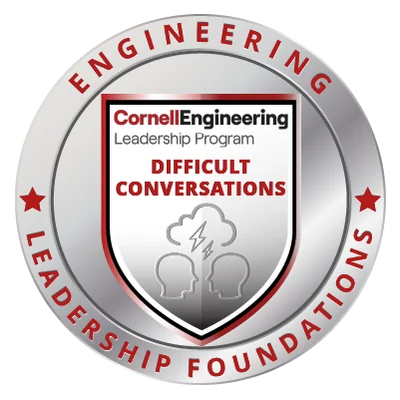
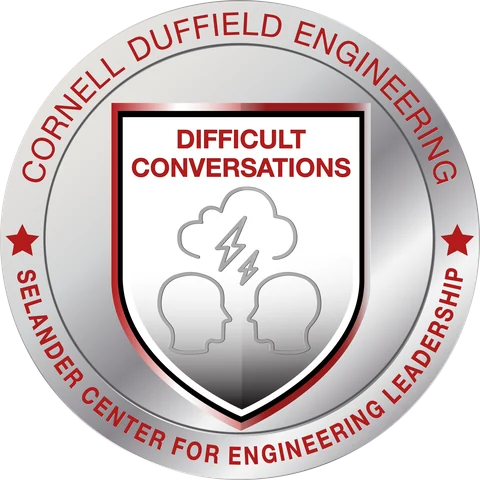
Update Selander badge images

diff --git a/site/certificates/index.html b/site/certificates/index.html
@@ -32,7 +32,7 @@
 .spec .cert>*{grid-column:2} .spec .cert>.cert-img{grid-column:1;grid-row:1 / span 6;align-self:center}
 @media (max-width:820px){.spec .cert{grid-template-columns:1fr} .spec .cert>*,.spec .cert>.cert-img{grid-column:1;grid-row:auto}}
 .jump{display:flex;flex-wrap:wrap;gap:.5rem}
-.badge-tile{display:grid;place-items:center;aspect-ratio:640/494;background:var(--accent-soft)} .cert-img.badge-tile img{width:64%;height:auto}</style>
+.badge-tile{display:grid;place-items:center;aspect-ratio:640/494;background:var(--accent-soft)} .cert-img.badge-tile img{width:70%;height:auto}</style>
 <header class="page-head col">
   <p class="eyebrow">Certificates</p>
   <h1>Credentials and structured development</h1>
@@ -65,14 +65,14 @@
   <div class="stack" style="margin-top:1.5rem">
     <p class="eyebrow">Selander Center digital badges</p>
     <div class="grid-3"><article class="card cert">
-  <a href="https://badges.parchment.com/public/assertions/PsCDLUzmQP-pevfjib--TQ" rel="noopener" class="cert-img badge-tile" aria-label="View and verify the Difficult Conversations badge on Parchment"><img src="/assets/certs/badge-PsCDLUzmQP-pevfjib--TQ.webp" width="400" height="400" loading="lazy" alt="Difficult Conversations digital badge from the Cornell Engineering Leadership Program, Engineering Leadership Foundations"></a>
+  <a href="https://badges.parchment.com/public/assertions/PsCDLUzmQP-pevfjib--TQ" rel="noopener" class="cert-img badge-tile" aria-label="View and verify the Difficult Conversations badge on Parchment"><img src="/assets/certs/badge-PsCDLUzmQP-pevfjib--TQ.webp" width="480" height="480" loading="lazy" alt="Difficult Conversations digital badge from the Selander Center for Engineering Leadership, Cornell Duffield Engineering"></a>
   <p class="eyebrow">Selander Center for Engineering Leadership · Jun 3, 2024</p>
   <h3>Difficult Conversations</h3>
   <p class="muted">A process and language for uncomfortable but critical team conversations, like giving hard feedback or setting boundaries. Earned through two workshops, two weeks of real-world practice and a written reflection.</p>
   <ul class="chips"><li>Feedback</li><li>Conflict</li><li>Communication</li></ul>
   <a class="go" href="https://badges.parchment.com/public/assertions/PsCDLUzmQP-pevfjib--TQ" rel="noopener">Verify on Parchment →</a>
 </article><article class="card cert">
-  <a href="https://badges.parchment.com/public/assertions/gEmhW986RKOnfqE7X0-0fQ" rel="noopener" class="cert-img badge-tile" aria-label="View and verify the Leading from Strengths badge on Parchment"><img src="/assets/certs/badge-gEmhW986RKOnfqE7X0-0fQ.webp" width="400" height="400" loading="lazy" alt="Leading from Strengths digital badge from the Cornell Engineering Leadership Program, Engineering Leadership Foundations"></a>
+  <a href="https://badges.parchment.com/public/assertions/gEmhW986RKOnfqE7X0-0fQ" rel="noopener" class="cert-img badge-tile" aria-label="View and verify the Leading from Strengths badge on Parchment"><img src="/assets/certs/badge-gEmhW986RKOnfqE7X0-0fQ.webp" width="480" height="480" loading="lazy" alt="Leading from Strengths digital badge from the Selander Center for Engineering Leadership, Cornell Duffield Engineering"></a>
   <p class="eyebrow">Selander Center for Engineering Leadership · Jun 3, 2024</p>
   <h3>Leading from Strengths</h3>
   <p class="muted">Turning individual talents into leadership qualities, based on a CliftonStrengths assessment, and working well with people whose strengths complement yours. Earned through two workshops, practice and a written reflection.</p>
